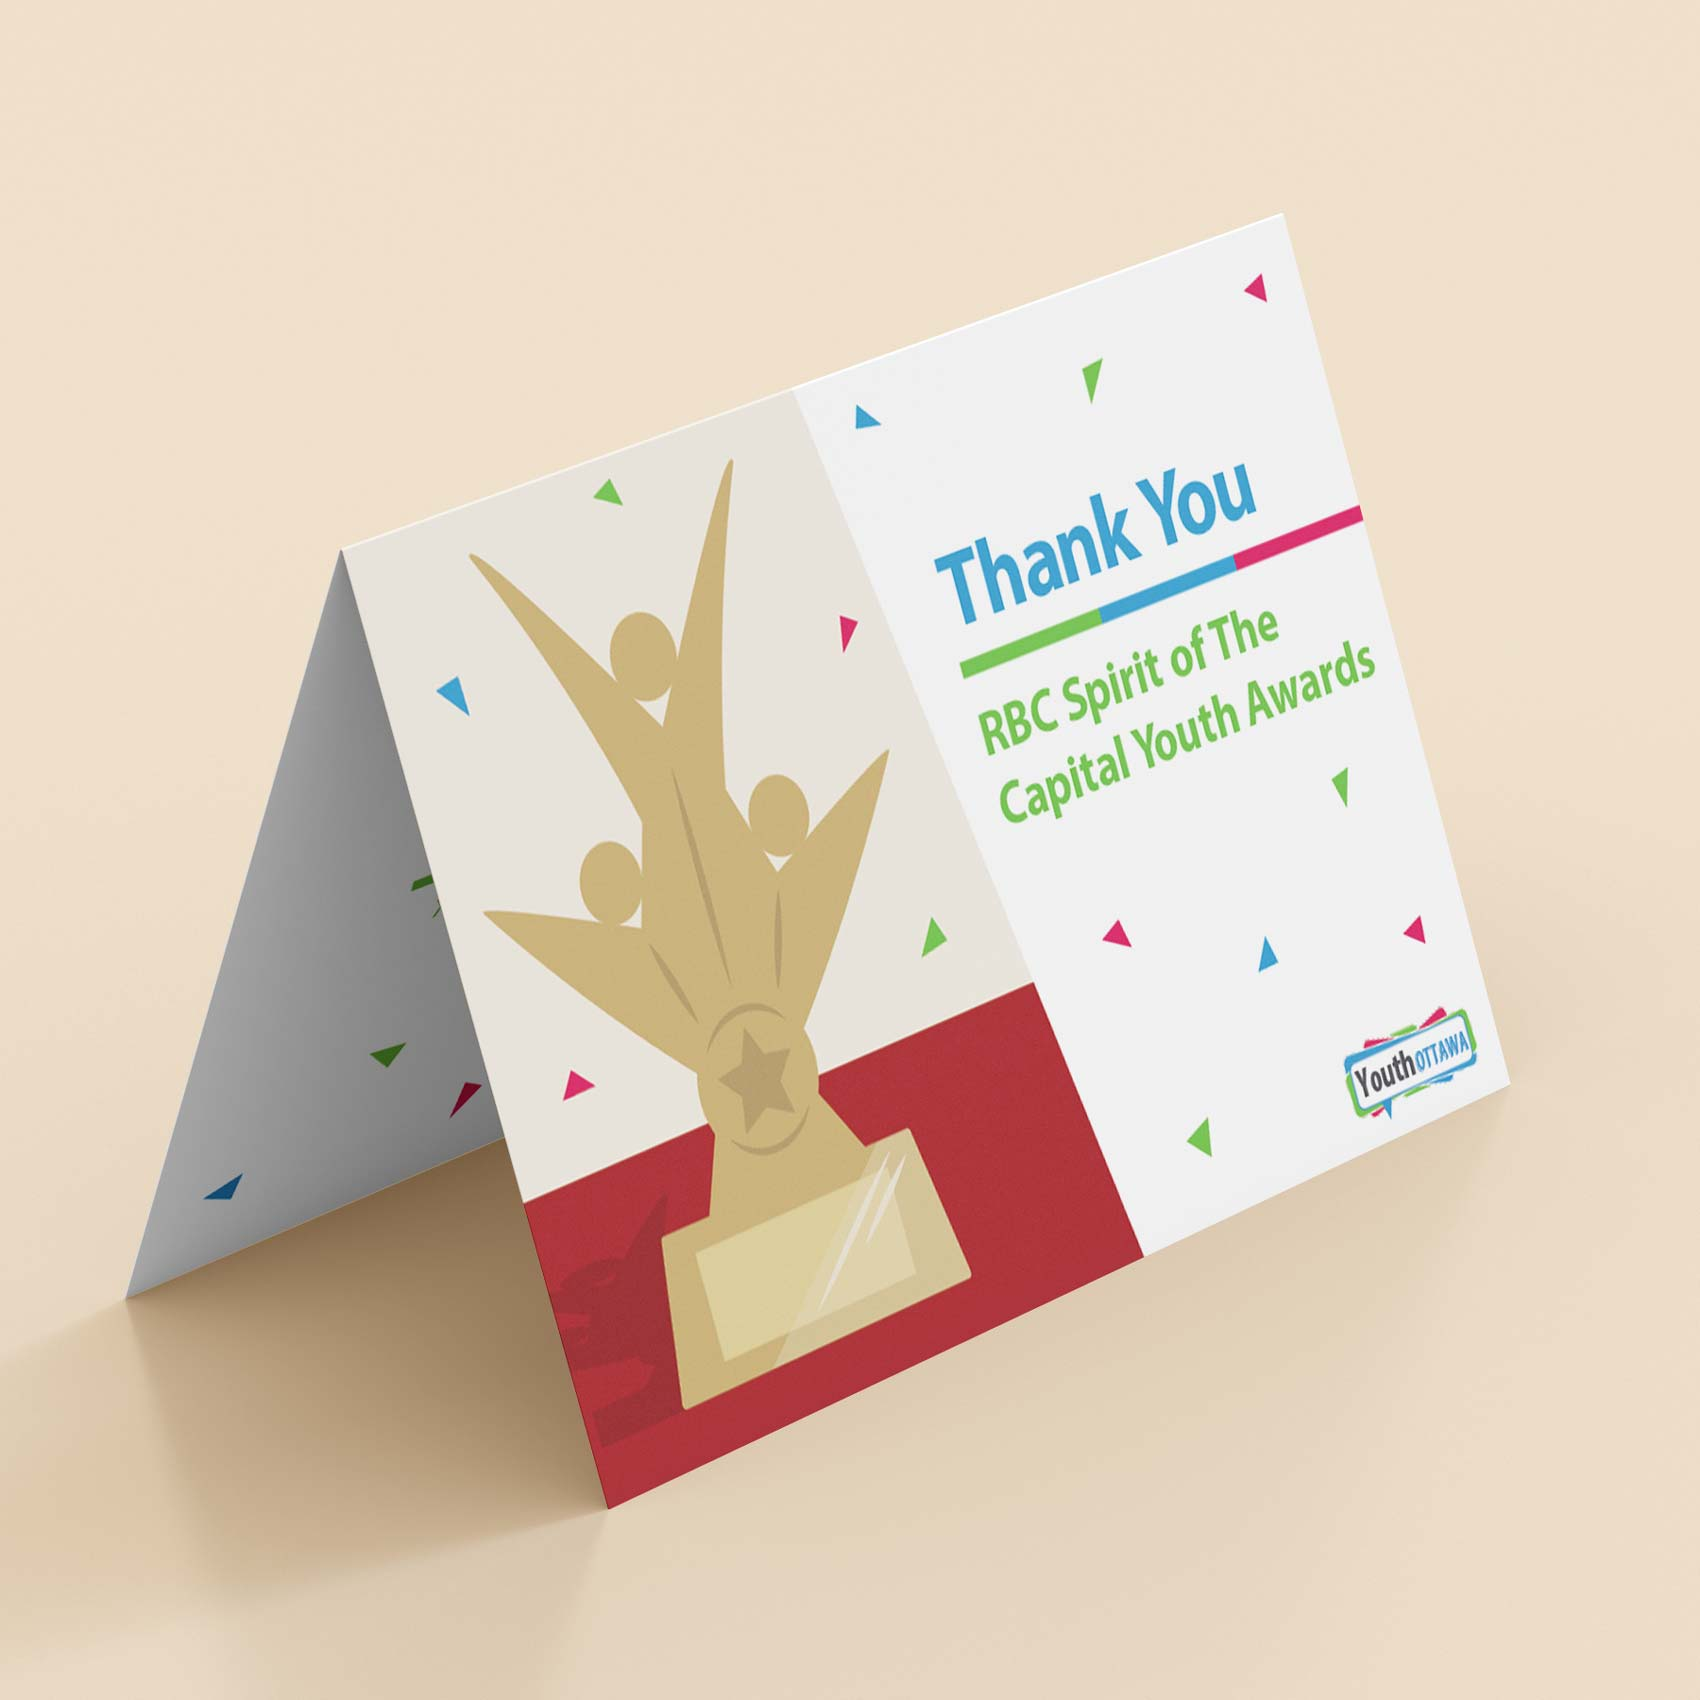
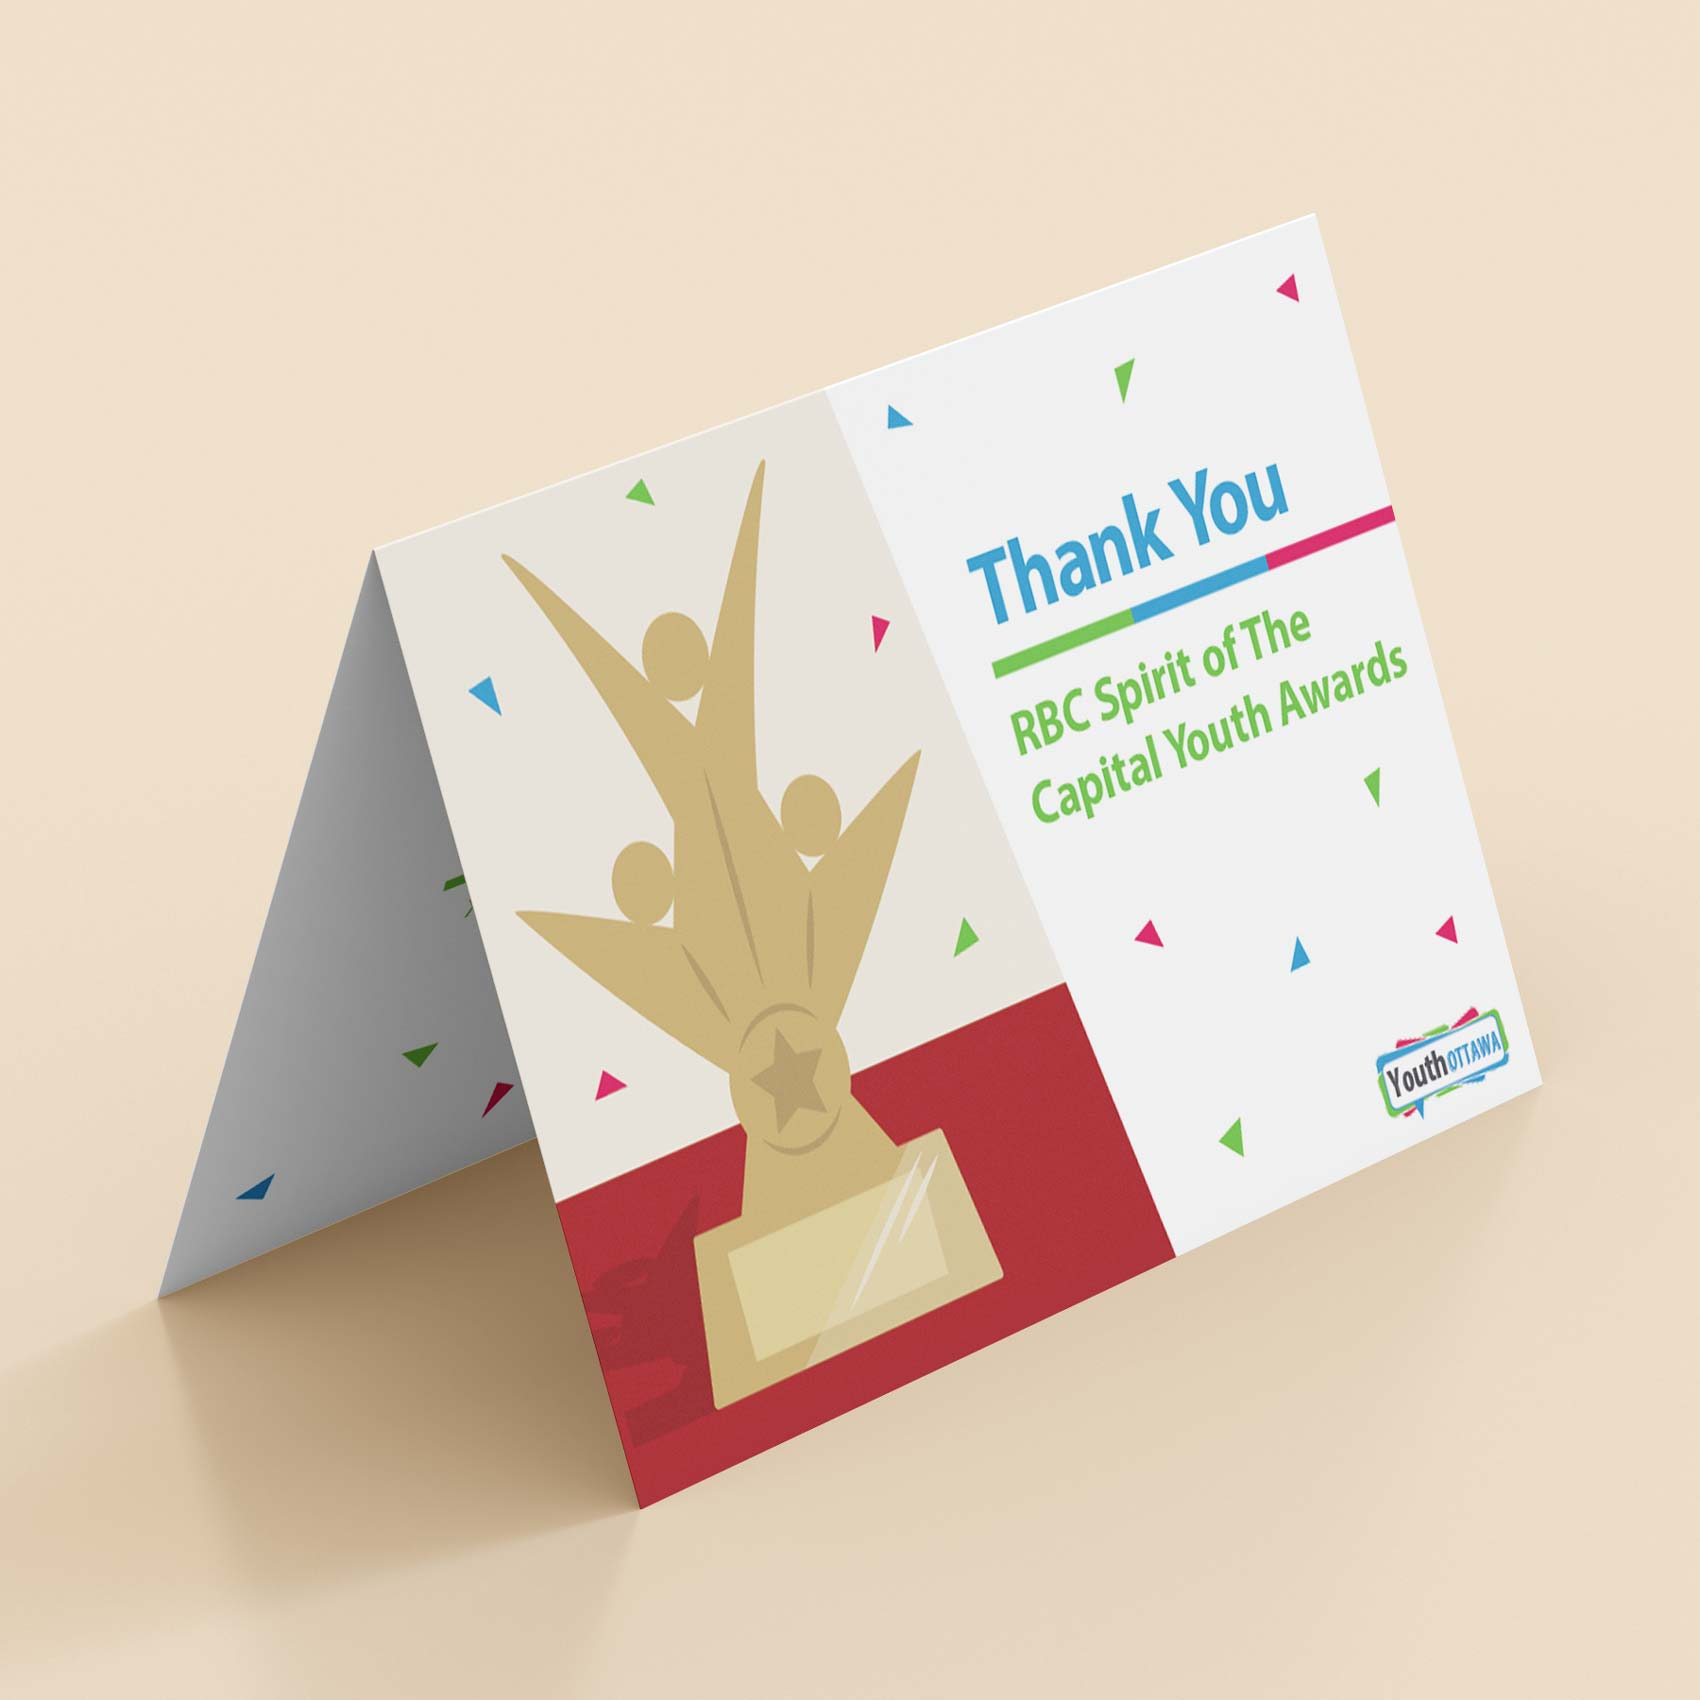
Add all of the extra projects to the play page

diff --git a/play.html b/play.html
@@ -18,13 +18,13 @@ sitename: Megan Smith's Portfolio
       <div class="">
         <img class="img-flex" src="/images/play/kitties.jpg" alt="Illustration of both of my cats. They're siamese.">
       </div>
-      <!-- <p class="grey-text micro pad-t-1-8">Illustration of my cats</p> -->
+      <p class="grey-text micro pad-t-1-8 push-0">This is an illustration of my cats</p>
     </div>
     <div class="unit xs-1 m-1-2 island-1-4">
       <div class="">
         <img class="img-flex" src="/images/play/omg-what.jpg" alt="This piece says omg what with a grungy brush stroke effect">
       </div>
-      <!-- <p class="grey-text micro pad-t-1-8">Illustrative typography piece</p> -->
+      <p class="grey-text micro pad-t-1-8 push-0">Illustrative typography piece</p>
     </div>
     <div class="unit xs-1 island-1-4">
       <div style="padding:56.25% 0 0 0;position:relative;"><iframe src="https://player.vimeo.com/video/397706813?loop=1&color=F9BBC7&title=0&portrait=0" style="position:absolute;top:0;left:0;width:100%;height:100%;" frameborder="0" allow="autoplay; fullscreen" allowfullscreen></iframe></div><script src="https://player.vimeo.com/api/player.js"></script>
@@ -34,36 +34,72 @@ sitename: Megan Smith's Portfolio
       <div class="">
         <img class="img-flex" src="/images/play/lm-stars.jpg" alt="This is an image of 4 posters. It was a random concept I treid that includes the 4 members of a girl group called Little Mix">
       </div>
-      <!-- <p class="grey-text micro pad-t-1-8">A random photo composition set I made of Little Mix</p> -->
+      <p class="grey-text micro pad-t-1-8 push-0">This is a photo composition set I made of Little Mix</p>
     </div>
     <div class="unit xs-1 m-1-2 island-1-4">
       <div class="">
         <img class="img-flex" src="/images/play/walking-dead-de.jpg" alt="This is a poster of Michonne and a zombie from the walking dead.">
       </div>
-      <!-- <p class="grey-text micro pad-t-1-8">The Walking Dead poster concept</p> -->
+      <p class="grey-text micro pad-t-1-8 push-0">The Walking Dead Poster Concept</p>
     </div>
     <div class="unit xs-1 island-1-4">
       <div class="">
-        <img class="img-flex" src="/images/play/bio-fact-sheet.jpg" alt="This is an image of 4 posters. It was a random concept I treid that includes the 4 members of a girl group called Little Mix">
+        <img class="img-flex" src="/images/play/bio-fact-sheet.jpg" alt="This is an image of 2 bio fact sheets. The image shows the front and back of the fact sheets. The fact sheets talk about Martin Luther King Jr. and Harriet Tubman.">
       </div>
+      <p class="grey-text micro pad-t-1-8 push-0">Bio Fact Sheets Concept</p>
     </div>
     <div class="unit xs-1 m-1-2 island-1-4">
       <div class="">
-        <img class="img-flex" src="/images/play/stickers.jpg" alt="this picture showcases an image of the 9 sticker designs that I've actually gotten printed">
+        <img class="img-flex" src="/images/play/yo-thank-you-card.jpg" alt="This is a picture of a thank you card that I designed for the Youth Ottawa spirit of the capital awards. There's an illustration on the front of the award they give out at this event.">
       </div>
-      <!-- <p class="grey-text micro pad-t-1-8 push-it push-0">Sticker Designs (Actually printed) :0</p> -->
+      <p class="grey-text micro pad-t-1-8 push-it push-0">Thank you card for Youth Ottawa Spirit of the Captial Awards</p>
+    </div>
+    <div class="unit xs-1 m-1-2 island-1-4">
+      <div class="">
+        <img class="img-flex" src="/images/play/beats-poster.jpg" alt="This is a poster concept for beats solo 2 headphones. There is an illustration of a hand holding the headphones in an art deco style.">
+      </div>
+      <p class="grey-text micro pad-t-1-8 push-0">Beats Solo 2 Poster Concept</p>
+    </div>
+    <div class="unit xs-1 island-1-4">
+      <div class="">
+        <img class="img-flex" src="/images/play/yo-program-booklet.jpg" alt="This is a picture of the updated Youth Ottawa program booklet. It shows both the front cover as well as one of the spreads from the booklet.">
+      </div>
+      <p class="grey-text micro pad-t-1-8 push-0">2020 Youth Ottawa Program Booklet</p>
+    </div>
+    <div class="unit xs-1 m-1-2 island-1-4">
+      <div class="">
+        <img class="img-flex" src="/images/play/stickers.jpg" alt="This is an image of the 9 sticker designs that I've actually gotten printed.">
+      </div>
+      <p class="grey-text micro pad-t-1-8 push-it push-0">Sticker Designs (Actually printed) :0</p>
     </div>
     <div class="unit xs-1 m-1-2 island-1-4">
       <div class="">
         <img class="img-flex" src="/images/play/3d-popsicle.jpg" alt="This is an image of a melting popsicle that I made in cinema 4d">
       </div>
-      <!-- <p class="grey-text micro pad-t-1-8 push-0">3D rendered melting popsicle</p> -->
+      <p class="grey-text micro pad-t-1-8 push-0">3D rendered melting popsicle</p>
     </div>
-  </div>
-  <div class="unit xs-1 island-1-4">
-    <div class="">
-      <img class="img-flex" src="/images/play/yo-program-booklet.jpg" alt="This is an image of 4 posters. It was a random concept I treid that includes the 4 members of a girl group called Little Mix">
+    <div class="unit xs-1 island-1-4">
+      <div style="padding:56.25% 0 0 0;position:relative;"><iframe src="https://player.vimeo.com/video/434037198?loop=1&color=F9BBC7&title=0&portrait=0" style="position:absolute;top:0;left:0;width:100%;height:100%;" frameborder="0" allow="autoplay; fullscreen" allowfullscreen></iframe></div><script src="https://player.vimeo.com/api/player.js"></script>
+      <p class="grey-text micro pad-t-1-8 push-0">This is my first animated short!</p>
     </div>
+    <!-- <div class="unit xs-1 island-1-4">
+      <div class="">
+        <img class="img-flex" src="/images/play/social-media-banners.jpg" alt="This is an image of 4 different social media banners">
+      </div>
+      <p class="grey-text micro pad-t-1-8 push-0">Set of interchangable social media banners for Youth Ottawa</p>
+    </div>
+    <div class="unit xs-1 m-1-2 island-1-4">
+      <div class="">
+        <img class="img-flex" src="/images/play/teal-planet.jpg" alt="">
+      </div>
+      <p class="grey-text micro pad-t-1-8 push-it push-0">Sticker Designs (Actually printed) :0</p>
+    </div>
+    <div class="unit xs-1 m-1-2 island-1-4">
+      <div class="">
+        <img class="img-flex" src="/images/play/moon-lamp.jpg" alt="This is an image of a melting popsicle that I made in cinema 4d">
+      </div>
+      <p class="grey-text micro pad-t-1-8 push-0">3D rendered melting popsicle</p>
+    </div> -->
   </div>
 
 </section>
